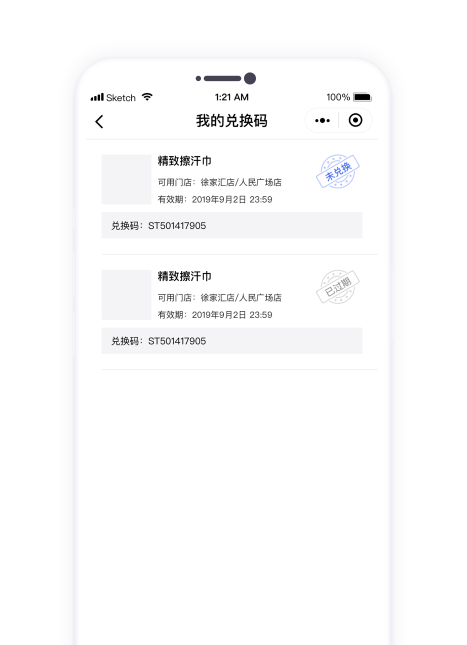
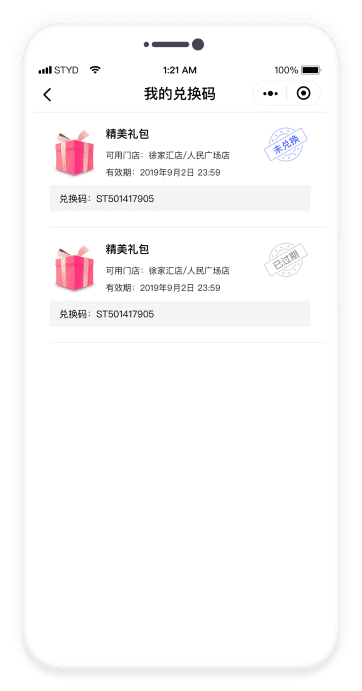
fix: 换图

diff --git a/src/views/pages/brand/marketing/plugin/lottery/checkin.less b/src/views/pages/brand/marketing/plugin/lottery/checkin.less
@@ -25,11 +25,13 @@
   &__content {
     &-img {
       position: relative;
-      bottom: -24px;
-      margin-left: -180px;
+      margin-left: -100px;
+      margin-right: 30px;
     }
   }
   &__step {
+    position: relative;
+    top: -60px;
     display: inline-block;
     text-align: left;
     &-item {
@@ -41,6 +43,7 @@
       height: 32px;
       .mg-r(8px);
       .mg-t(6px);
+      color: rgba(63, 102, 246, 1);
       line-height: 32px;
       border: 1px solid rgba(63, 102, 246, 1);
       border-radius: 50%;

diff --git a/src/views/pages/brand/marketing/plugin/lottery/checkin.vue b/src/views/pages/brand/marketing/plugin/lottery/checkin.vue
@@ -3,7 +3,7 @@
     <div :class="bPage()">
       <div :class="bPage('header')">
         <a-input-search
-          style="width:722px"
+          style="width:722px;"
           placeholder="输入需要核销的兑换码"
           v-model="keyword"
           @search="getCheckinList"
